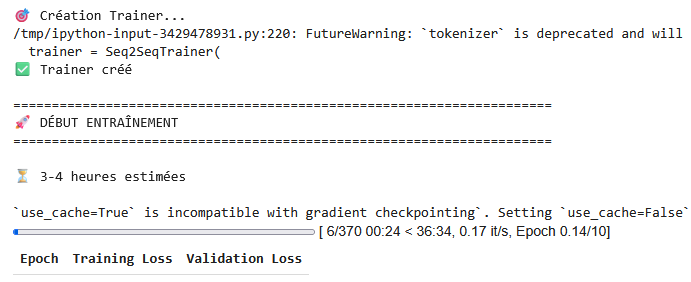
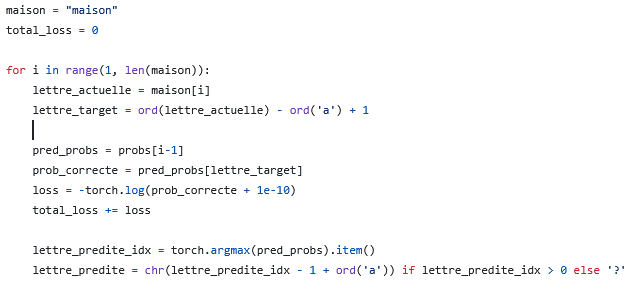
Update 21032026

diff --git a/html/competences.html b/html/competences.html
@@ -48,13 +48,23 @@
             </div>
 
             <div class="skill-card">
-                <img src="C_logo.png" alt="C" class="skill-icon-img">
+                <img src="https://cdn.jsdelivr.net/gh/devicons/devicon/icons/c/c-original.svg" alt="C" class="skill-icon-img">
                 <h3 class="skill-name">C</h3>
                 <p class="skill-level">Intermédiaire</p>
             </div>
 
             <div class="skill-card">
-                <img src="https://cdn.jsdelivr.net/gh/devicons/devicon/icons/mysql/mysql-original.svg" alt="SQL" class="skill-icon-img">
+                <img src="https://cdn.jsdelivr.net/gh/devicons/devicon/icons/cplusplus/cplusplus-original.svg" alt="C++" class="skill-icon-img">
+                <h3 class="skill-name">C++</h3>
+                <p class="skill-level">Débutant</p>
+            </div>
+
+            <div class="skill-card">
+                <svg class="skill-icon-img" xmlns="http://www.w3.org/2000/svg" viewBox="0 0 24 24" fill="none" stroke="white" stroke-width="1.5" stroke-linecap="round" stroke-linejoin="round">
+                    <ellipse cx="12" cy="5" rx="9" ry="3"/>
+                    <path d="M3 5v14c0 1.66 4.03 3 9 3s9-1.34 9-3V5"/>
+                    <path d="M3 12c0 1.66 4.03 3 9 3s9-1.34 9-3"/>
+                </svg>
                 <h3 class="skill-name">SQL</h3>
                 <p class="skill-level">Avancé</p>
             </div>
@@ -101,8 +111,20 @@
             </div>
 
             <div class="skill-card">
-                <img src="https://cdn.jsdelivr.net/gh/devicons/devicon/icons/kubernetes/kubernetes-plain.svg" alt="Kubernetes" class="skill-icon-img">
-                <h3 class="skill-name">Kubernetes</h3>
+                <img src="https://cdn.jsdelivr.net/gh/devicons/devicon@latest/icons/rabbitmq/rabbitmq-original.svg" alt="RabbitMQ" class="skill-icon-img">
+                <h3 class="skill-name">RabbitMQ</h3>
+                <p class="skill-level">Débutant</p>
+            </div>
+
+            <div class="skill-card">
+                <img src="https://cdn.jsdelivr.net/gh/devicons/devicon/icons/redis/redis-original.svg" alt="Redis" class="skill-icon-img">
+                <h3 class="skill-name">Redis</h3>
+                <p class="skill-level">Débutant</p>
+            </div>
+
+            <div class="skill-card">
+                <img src="https://n8n.io/favicon.ico" alt="N8N" class="skill-icon-img">
+                <h3 class="skill-name">N8N</h3>
                 <p class="skill-level">Intermédiaire</p>
             </div>
 
@@ -142,6 +164,56 @@
                 <h3 class="skill-name">MongoDB</h3>
                 <p class="skill-level">Débutant</p>
             </div>
+
+            <div class="skill-card">
+                <img src="https://cdn.jsdelivr.net/gh/devicons/devicon/icons/postgresql/postgresql-original.svg" alt="PostgreSQL" class="skill-icon-img">
+                <h3 class="skill-name">PostgreSQL</h3>
+                <p class="skill-level">Intermédiaire</p>
+            </div>
+
+            <div class="skill-card">
+                <img src="https://cdn.jsdelivr.net/gh/devicons/devicon/icons/linux/linux-original.svg" alt="Linux" class="skill-icon-img">
+                <h3 class="skill-name">Linux</h3>
+                <p class="skill-level">Intermédiaire</p>
+            </div>
+
+            <div class="skill-card">
+                <div class="skill-icon">🖥</div>
+                <h3 class="skill-name">Proxmox</h3>
+                <p class="skill-level">Intermédiaire</p>
+            </div>
+
+            <div class="skill-card">
+                <svg class="skill-icon-img" xmlns="http://www.w3.org/2000/svg" viewBox="0 0 24 24" fill="none" stroke="white" stroke-width="1.5" stroke-linecap="round" stroke-linejoin="round">
+                    <rect x="2" y="2" width="8" height="8" rx="1"/>
+                    <rect x="14" y="2" width="8" height="8" rx="1"/>
+                    <rect x="2" y="14" width="8" height="8" rx="1"/>
+                    <rect x="14" y="14" width="8" height="8" rx="1"/>
+                    <path d="M10 6h4M6 10v4M18 10v4M10 18h4"/>
+                </svg>
+                <h3 class="skill-name">Réseau</h3>
+                <p class="skill-level">Intermédiaire</p>
+                <p class="math-description" style="font-size:0.85rem; color:#aaa; margin-top:8px;">TCP/IP · Web · SSH · FTP</p>
+            </div>
+
+            <div class="skill-card">
+                <img src="https://cdn.jsdelivr.net/gh/devicons/devicon@latest/icons/qt/qt-original.svg" alt="Qt" class="skill-icon-img">
+                <h3 class="skill-name">Qt / PyQt</h3>
+                <p class="skill-level">Débutant</p>
+            </div>
+
+            <div class="skill-card">
+                <img src="https://cdn.simpleicons.org/virtualbox/white" alt="VirtualBox" class="skill-icon-img">
+                <h3 class="skill-name">Oracle VirtualBox</h3>
+                <p class="skill-level">Intermédiaire</p>
+            </div>
+
+            <div class="skill-card">
+                <div class="skill-icon">🔐</div>
+                <h3 class="skill-name">IAM</h3>
+                <p class="skill-level">Intermédiaire</p>
+                <p class="math-description" style="font-size:0.85rem; color:#aaa; margin-top:8px;">MidPoint · RBAC · ABAC</p>
+            </div>
         </div>
     </section>
 
@@ -150,35 +222,42 @@
         <h2 class="section-title">Mathématiques Appliquées</h2>
         <div class="math-grid">
             <div class="math-card">
-                <h3 class="math-title">Topologie & Analyse hilbertienne</h3>
+                <h3 class="math-title">Mathématiques <span style="font-size:0.75rem; color:#aaa;">(niveau CPGE – en cours d'approfondissement)</span></h3>
                 <p class="math-description">
-                    Cours niveau MP : Séries entières, espaces vectoriels normés, 
-                    topologie, calcul différentiel, intégrales multiples, 
-                    réduction d'endomorphismes.
+                    Étude de concepts avancés en analyse et algèbre : séries entières,
+                    calcul différentiel, intégrales multiples, espaces vectoriels normés
+                    et premières notions de topologie.
                 </p>
             </div>
 
             <div class="math-card">
-                <h3 class="math-title">Théorie de la mesure & Intégration de Lebesgue</h3>
+                <h3 class="math-title">Algèbre Linéaire</h3>
                 <p class="math-description">
-                    Complexité algorithmique, structures de données avancées,
-                    optimisation, théorie des graphes, programmation dynamique.
+                    Espaces vectoriels, bases et famille génératrice, applications linéaires,
+                    matrices et opérations, déterminants, diagonalisation,
+                    valeurs propres et vecteurs propres, réduction d'endomorphismes.
                 </p>
             </div>
 
             <div class="math-card">
-                <h3 class="math-title">Transformée de Fourier</h3>
+                <h3 class="math-title">Optimisation & Complexité Algorithmique</h3>
                 <p class="math-description">
-                    Variables aléatoires, lois de probabilité, convergence,
-                    inférence statistique, tests d'hypothèses, modélisation.
+                    Complexité temporelle et spatiale : calcul via sommes formelles associées aux boucles imbriquées.
+            </div>
+
+            <div class="math-card">
+                <h3 class="math-title">Cryptographie <span style="font-size:0.75rem; color:#aaa;">(notions)</span></h3>
+                <p class="math-description">
+                    Introduction à l'arithmétique modulaire (congruences, calculs modulo n)
+                    et aux mécanismes de chiffrement classiques.
                 </p>
             </div>
 
             <div class="math-card">
-                <h3 class="math-title">Espaces de Sobolev</h3>
+                <h3 class="math-title">Probabilités <span style="font-size:0.75rem; color:#aaa;">(bases)</span></h3>
                 <p class="math-description">
-                    Machine Learning, traitement d'images, cryptographie,
-                    compression de données, modélisation de systèmes complexes.
+                    Modélisation avec la loi de Bernoulli, loi binomiale, inégalité de Bienaymé-Tchebychev,
+                    utilisation des coefficients binomiaux et premières notions d'espérance.
                 </p>
             </div>
         </div>

diff --git a/html/project.html b/html/project.html
@@ -54,19 +54,22 @@
                     <img src="../img/LLM.png" alt="Traducteur Français-Kabyle IA">
                 </div>
                 <div class="project-content">
-                    <h3 class="project-name">Traducteur IA Français-Kabyle</h3>
+                    <h3 class="project-name">Mini Transformer from Scratch</h3>
                     <p class="project-description">
-                        Le Kabyle est une langue berbère parlée en Algérie.
-                        Développement d'une application web de traduction Français-Kabyle
-                        utilisant un modèle de deep learning. L'infrastructure est déployée
-                        sur AWS pour garantir performance et scalabilité.
+                        Mon projet personnel pour comprendre comment fonctionnent réellement
+                        les LLM (comme ChatGPT) en construisant un transformer de zéro.
+                        Implémentation des embeddings, matrices d'attention, calcul des
+                        attention scores et de la loss avec PyTorch et NumPy — pas de magie,
+                        juste les opérations tensorielles à la main.
+                        C'est loin d'être parfait, mais l'objectif c'était de vraiment comprendre,
+                        pas de sortir un produit fini.
                     </p>
                     <div class="project-tags">
                         <span class="tag">Python</span>
-                        <span class="tag">Deep Learning</span>
-                        <span class="tag">nllb-200</span>
                         <span class="tag">PyTorch</span>
-                        <span class="tag">Matrices</span>
+                        <span class="tag">NumPy</span>
+                        <span class="tag">Attention is all you need</span>
+                        <span class="tag">Let's build ChatGPT</span>
                     </div>
                 </div>
             </div>
@@ -118,7 +121,7 @@
                             <span class="tag">Python</span>
                             <span class="tag">PyQt5</span>
                             <span class="tag">Capteurs EMG</span>
-                            <span class="tag">IMU</span>
+                            <span class="tag">Capteurs IMU</span>
                             <span class="tag">Temps réel</span>
                         </div>
                     </div>
@@ -152,7 +155,7 @@
 
             <div class="project-card">
                 <div class="project-image">
-                    <img src="/img/S3-CloudFront.png" alt="Projet 6">
+                    <img src="../img/S3-CloudFront.png" alt="Projet 6">
                 </div>
                 <div class="project-content">
                     <h3 class="project-name">Création d'un site simple statistique accessible à tous sur S3 Bucket</h3>
@@ -226,8 +229,8 @@
             </div>
             <h3 class="learn-title">DevOps & Containerisation</h3>
             <p class="learn-description">
-                Maîtrise de Docker, Kubernetes, CI/CD avec GitLab/GitHub Actions.
-                Infrastructure as Code avec Terraform.
+Maîtrise de Docker, CI/CD avec GitLab/GitHub Actions. 
+Virtualisation avec Proxmox et VirtualBox.
             </p>
             <div class="learn-resources">
                 <span class="resource">Documentation officielle</span>
@@ -243,10 +246,10 @@
                     <path d="M7 11V7a5 5 0 0 1 10 0v4"></path>
                 </svg>
             </div>
-            <h3 class="learn-title">Cybersécurité</h3>
+            <h3 class="learn-title">Cybersécurité (bases)</h3>
             <p class="learn-description">
-                Étude des vulnérabilités web (OWASP Top 10), cryptographie,
-                pentesting et sécurisation d'infrastructures avec RootMe.
+Analyse des protocoles réseau (TCP/IP) et des trames avec Wireshark.
+Pratique sur des plateformes d’entraînement comme RootMe (challenges d’initiation en sécurité et cryptographie).
             </p>
             <div class="learn-resources">
                 <span class="resource">OWASP Resources</span>

diff --git a/html/about.html b/html/about.html
@@ -36,9 +36,7 @@
                     constamment pour améliorer mes compétences pas que en informatique.
                 </p>
                 <p class="about-description">
-                    Mon objectif est de devenir ingenieur dans le cloud et de participer à des projets 
-                    innovants. Je suis particulièrement intéressé par le domaine du cloud, la programmation,
-                    le reseau et le developpemn d'applications web modernes.
+Mon objectif est de devenir ingénieur réseau et de participer à des projets innovants dans le cadre d’une alternance. Je suis particulièrement intéressé par les domaines du cloud, de la programmation, des réseaux, des systèmes hardware et du développement d’applications web modernes.
                 </p>
             </div>
             <div class="about-image">
@@ -110,8 +108,8 @@
                 </div>
                 <h3 class="interet-name">Cloud</h3>
                 <p class="interet-description">
-                    Passionné par le cloud (AWS, Azure) et la virtualisation. 
-                    J'explore Docker, Kubernetes et l'infrastructure as code 
+                    Passionné par le cloud (AWS) et la virtualisation. 
+                    J'explore Docker et l'infrastructure as code 
                     pour créer des architectures modernes et scalables.
                 </p>
             </div>
@@ -127,8 +125,7 @@
                 <p class="interet-description">
                     Les langues sont une passion. L'apprentissage et 
                     le fait de pouvoir exprimer plusieurs pensées dans des langues 
-                    différentes m'ont toujours intrigué. Je parle couramment le français, l'anglais et l'espagnol,
-                    le kabyle et l'arabe.
+                    différentes m'ont toujours intrigué. Je parle couramment le français, l'anglais des notions en espagnol et le kabyle et j'apprend actuellement l'arabe et le coréen.
                 </p>
             </div>
             <div class="interet-card">
@@ -147,8 +144,8 @@
                 <h3 class="interet-name">Mathématiques</h3>
                 <p class="interet-description">
                     En parallèle de mes cours, je suis des cours de mathématiques 
-                    niveau MP supervisés par mon professeur pour approfondir mes connaissances 
-                    et renforcer mes compétences en algorithmique et logique.
+                     supervisés par mon professeur pour approfondir mes connaissances 
+                    et renforcer mes compétences en mathématique.
                 </p>
             </div>
             <div class="interet-card">
@@ -160,8 +157,6 @@
                 <p class="interet-description">
                     Durant mon enfance j'ai eu recours à la cuisine pour aider ma mère. 
                     Aujourd'hui c'est un loisir que j'apprécie énormément, alliant créativité et technique.
-                    J'ai participé à plusieurs concours culinaires et j'adore découvrir de nouvelles recettes.
-                </p>
             </div>
             <div class="interet-card">
                 <svg xmlns="http://www.w3.org/2000/svg" viewBox="0 0 24 24" fill="none" stroke="currentColor" stroke-width="2" stroke-linecap="round" stroke-linejoin="round" width="48" height="48">
@@ -176,9 +171,8 @@
                 </svg>
                 <h3 class="interet-name">Montage Vidéo</h3>
                 <p class="interet-description">
-                    Monteur pour plusieurs YouTubeurs et participation à la création 
-                    de publicités visuelles pour O'Tacos. Une passion qui allie 
-                    créativité technique et storytelling visuel.
+Réalisation de montages vidéo pour plusieurs créateurs de contenu YouTube, ainsi que participation à la création de contenus visuels publicitaires, notamment pour O’Tacos.
+Une expérience qui m’a permis de développer ma créativité, mon sens du détail et mes compétences en storytelling visuel.
                 </p>
             </div>
         </div>

diff --git a/css/index.css b/css/index.css
@@ -8,6 +8,11 @@
     src: url('../font/ChunkFive-Regular.otf') format('opentype');
 }
 
+        @font-face {
+            font-family: 'Inter-Medium';
+            src: url('../font/Inter-Medium.otf') format('opentype');
+        }
+
 * {
     margin: 0;
     padding: 0;
@@ -79,7 +84,7 @@ h1 {
 
 
 .nav {
-    
+    font-family: 'Inter-Medium', Arial, sans-serif;
     display: flex;
     flex-direction: row;
     justify-content: space-between;
@@ -159,6 +164,7 @@ a:hover {
 }
 
 .nav-links a {
+    font-family: 'Inter-Medium', Arial, sans-serif;
     text-decoration: none;
     color: #ffffff;
     font-size: 1rem;
@@ -199,6 +205,7 @@ a:hover {
 }
 
 footer {
+    font-family: 'Inter-Medium', Arial, sans-serif;
     background-color: #3f2361;
     color: #FFFFFF;
     text-align: center;

diff --git a/html/index.html b/html/index.html
@@ -32,7 +32,7 @@
         <div class="line">
             <div class="nav">
                 <div class="TextNav">
-                    <a href="/html/about.html" data-image="experiences">A propos</a>
+                    <a href="/html/about.html" data-image="experiences">À propos</a>
                     <a href="/html/competences.html" data-image="competences">Compétences</a>
                     <a href="/html/project.html" data-image="projets">Projets</a>
                 </div>

diff --git a/css/project.css b/css/project.css
@@ -186,6 +186,7 @@ a {
     line-height: 1.6;
     color: #CCCCCC;
     margin-bottom: 20px;
+    border-bottom: 1px solid rgba(133, 85, 195, 0.3);
 }
 
 .project-tags {
